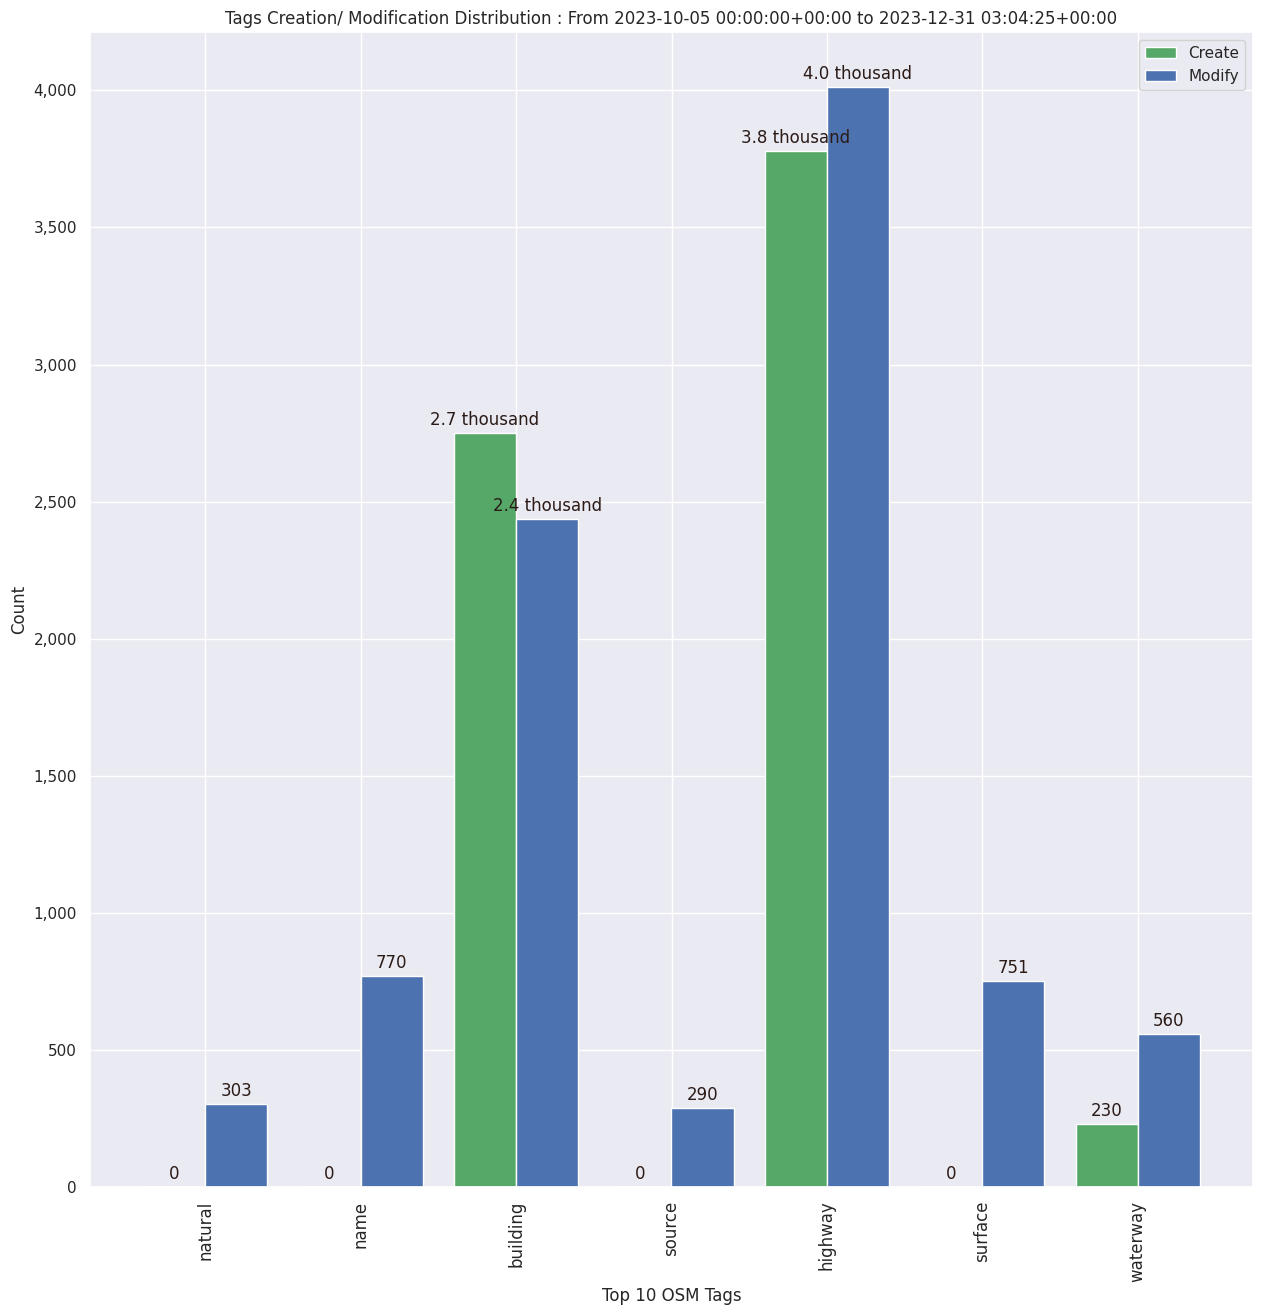
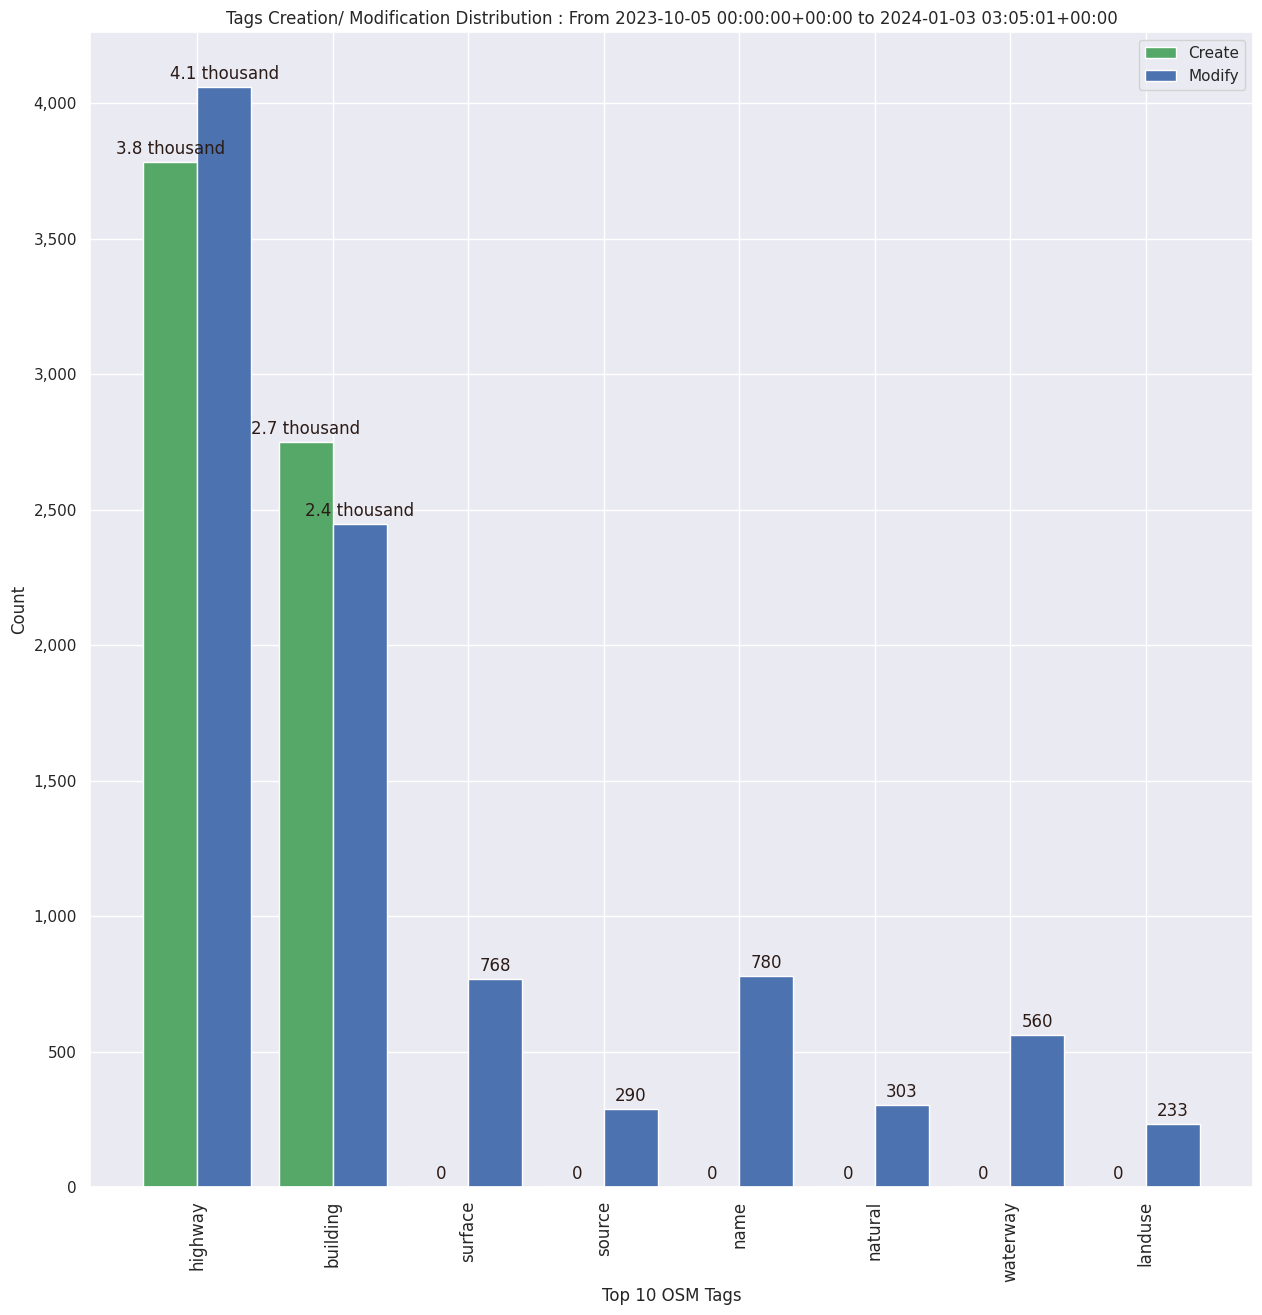
Updated Every2days SNRMPNepal stats

diff --git a/stats/SNRMPNepal/Every2days/Readme.md b/stats/SNRMPNepal/Every2days/Readme.md
@@ -1,21 +1,21 @@
-### Last Update : Stats from 2023-10-05 00:00:00+00:00 to 2023-12-31 03:04:25+00:00 (UTC Timezone)
+### Last Update : Stats from 2023-10-05 00:00:00+00:00 to 2024-01-03 03:05:01+00:00 (UTC Timezone)
 
-#### 82 Users made 3.1 thousand changesets with 316.1 thousand map changes.
-#### 163.9 thousand OSM Elements were Created, 117.7 thousand Modified & 34.5 thousand Deleted.
+#### 82 Users made 3.1 thousand changesets with 319.0 thousand map changes.
+#### 164.2 thousand OSM Elements were Created, 119.8 thousand Modified & 35.0 thousand Deleted.
 Get Full Stats at [stats.csv](/stats/SNRMPNepal/Every2days/stats.csv)
  & Get Summary Stats at [stats_summary.csv](/stats/SNRMPNepal/Every2days/stats_summary.csv)
 
 Top 5 Users are : 
 - Aarogya Pandey : 70.2 thousand Map Changes
-- Shrestha Shristi : 49.7 thousand Map Changes
+- Shrestha Shristi : 52.6 thousand Map Changes
 - Niruta Neeupane : 31.8 thousand Map Changes
 - Ashim Paudel : 20.6 thousand Map Changes
 - Vivek Dumre : 14.3 thousand Map Changes
 
 Summary of Supplied Tags
-- poi = Created: 97, Modified : 296
+- poi = Created: 97, Modified : 297
 - building = Created: 2.7 thousand, Modified : 2.4 thousand
-- highway = Created: 3.8 thousand, Modified : 4.0 thousand
+- highway = Created: 3.8 thousand, Modified : 4.1 thousand
 - waterway = Created: 230, Modified : 560
 - amenity = Created: 2, Modified : 46
 - highway length created = 1.3 thousand Km
@@ -26,30 +26,30 @@ Top 5 Created tags are :
 - building: 2.7 thousand
 - waterway: 230
 - natural: 100
-- surface: 65
+- surface: 67
 
 
 Top 5 Modified tags are :
-- highway: 4.0 thousand
+- highway: 4.1 thousand
 - building: 2.4 thousand
-- name: 770
-- surface: 751
+- name: 780
+- surface: 768
 - waterway: 560
 
 
 Top 5 trending hashtags are:
-- #OMGuru : 82 users
 - #aphub : 82 users
-- #startnetwork : 82 users
+- #OMGuru : 82 users
 - #SNRMPNepal : 82 users
+- #startnetwork : 82 users
 - #hotosm-project-15639 : 56 users
 
 
 Top 5 trending editors are:
 - iD 2.21.1 : 43 users
 - JOSM/1.5 (18822 en) : 29 users
-- JOSM/1.5 (18772 en) : 4 users
 - JOSM/1.5 (18700 en) : 4 users
+- JOSM/1.5 (18772 en) : 4 users
 - JOSM/1.5 (18427 en) : 2 users
 
 
